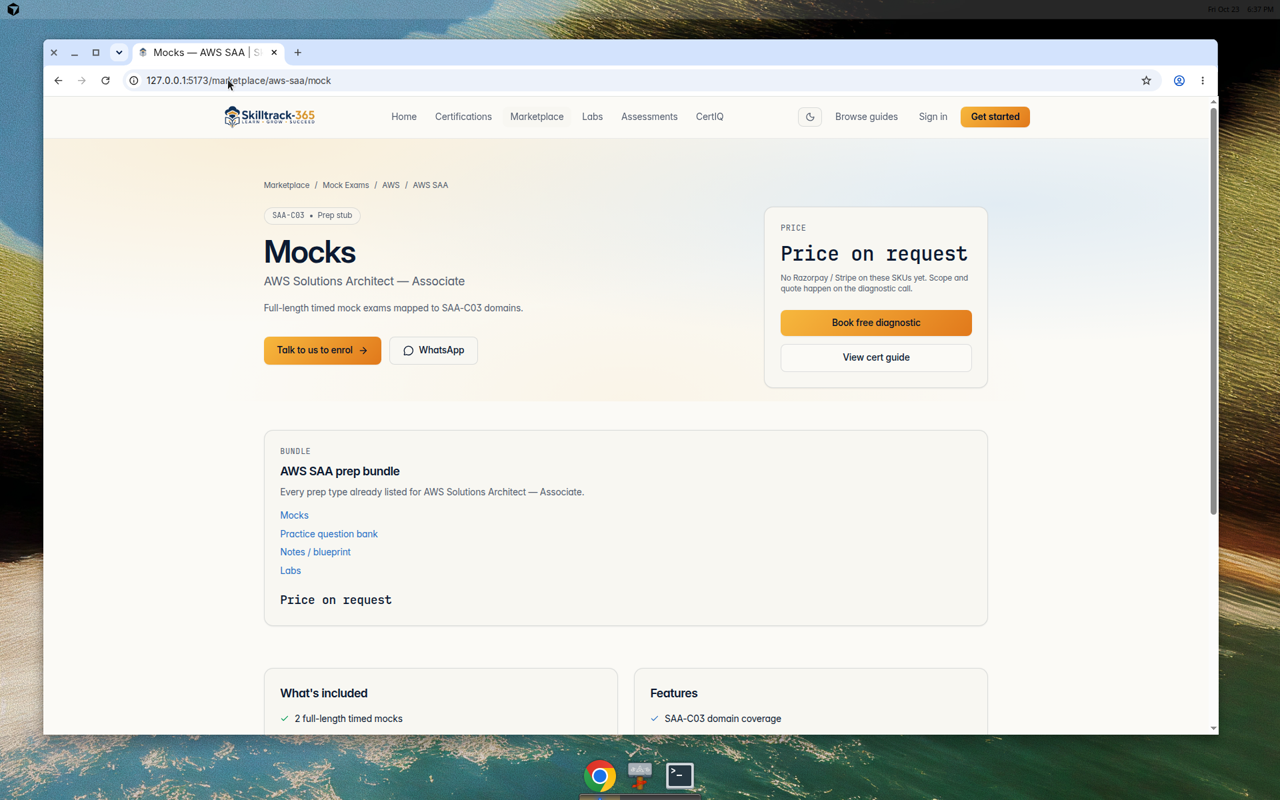
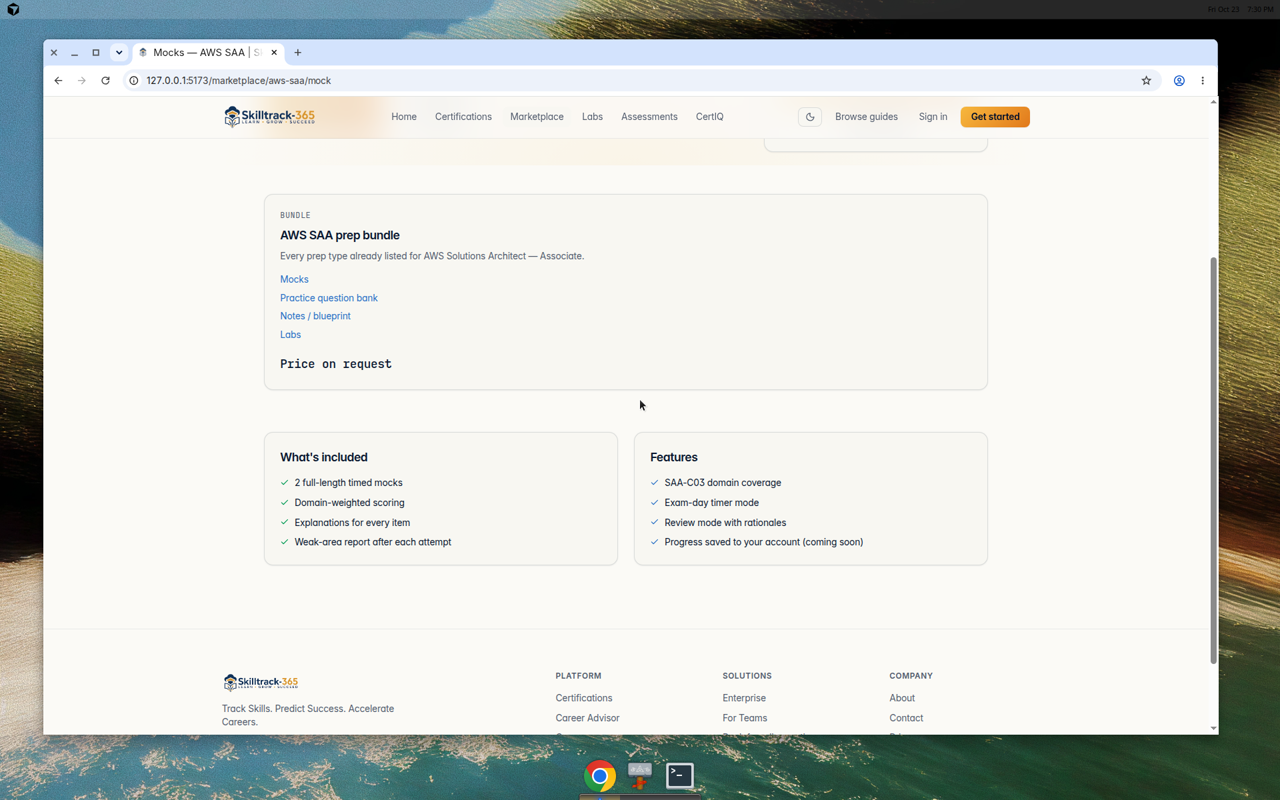
Treat the 999 marketplace seed price as missing.
Public prep prices and bundle totals ignore price_inr when it equals the column default, and show Price on request unless every SKU has a real price.

diff --git a/src/lib/marketplace.ts b/src/lib/marketplace.ts
@@ -391,8 +391,8 @@ const CERT_PREP_SKUS: Record<MarketplaceCertKey, PrepSkuDef[]> = {
 export const PREP_SKU_TYPES: PrepSkuDef[] = CERT_PREP_SKUS["aws-saa"];
 
 /**
- * Admin seed / form default only. Not a quoted prep price.
- * Public catalogue pages must not display this when `priceInr` is missing.
+ * Admin seed / form default and the `marketplace_skus.price_inr` column default.
+ * Not a quoted prep price. Public catalogue pages treat this amount as missing.
  */
 export const MARKETPLACE_PRICE_INR = 999;
 
@@ -403,9 +403,13 @@ export type ListedPrice = {
   currency: string;
 };
 
-/** A price the catalogue actually stored on the SKU. Missing or non-finite amounts are not listed. */
+/**
+ * A quoted prep price stored on the SKU.
+ * Missing, non-finite, and placeholder amounts (the column default / MARKETPLACE_PRICE_INR) are not listed.
+ */
 export function listedSkuPrice(sku: Pick<PrepSkuDef, "priceInr" | "currency">): ListedPrice | null {
   if (typeof sku.priceInr !== "number" || !Number.isFinite(sku.priceInr)) return null;
+  if (sku.priceInr === MARKETPLACE_PRICE_INR) return null;
   const currency = (sku.currency || "INR").trim().toUpperCase() || "INR";
   return { amount: sku.priceInr, currency };
 }
@@ -452,13 +456,17 @@ export type PrepBundleOffer = {
   title: string;
   skuTypes: PrepSkuType[];
   includes: string[];
-  /** Sum of stored SKU prices when every included SKU has a price in the same currency. */
+  /**
+   * Sum of quoted SKU prices when every included SKU has a real, non-placeholder
+   * price in the same currency. Otherwise null (shown as Price on request).
+   */
   price: ListedPrice | null;
 };
 
 /**
  * A bundle is the prep SKUs already listed for one certification (at least two).
- * No bundle price is stored; the amount is the sum of stored SKU prices, or null.
+ * No bundle price is stored. The amount is the sum of quoted SKU prices only when
+ * every included SKU has a real, non-placeholder price in the same currency.
  */
 export function prepBundleForCert(
   certKey: string,

diff --git a/src/lib/marketplace.test.ts b/src/lib/marketplace.test.ts
@@ -323,4 +323,42 @@ describe("marketplace prices and bundles", () => {
     }));
     expect(prepBundleForCert("aws-saa", catalog)?.price).toBeNull();
   });
+
+  it("treats the 999 seed default as missing, including inside bundle totals", () => {
+    expect(listedSkuPrice({ priceInr: 999, currency: "INR" })).toBeNull();
+    expect(listedSkuPrice({ priceInr: MARKETPLACE_PRICE_INR })).toBeNull();
+    expect(
+      formatListedPrice(listedSkuPrice({ priceInr: MARKETPLACE_PRICE_INR, currency: "INR" })),
+    ).toBe("Price on request");
+    expect(listedSkuPrice({ priceInr: 1299, currency: "INR" })).toEqual({
+      amount: 1299,
+      currency: "INR",
+    });
+
+    const catalog = buildStaticMarketplaceCatalog();
+    catalog.skusByCert["aws-saa"] = catalog.skusByCert["aws-saa"]!.map((sku) => ({
+      ...sku,
+      priceInr: MARKETPLACE_PRICE_INR,
+      currency: "INR",
+    }));
+    expect(prepBundleForCert("aws-saa", catalog)?.price).toBeNull();
+    expect(formatListedPrice(prepBundleForCert("aws-saa", catalog)?.price ?? null)).toBe(
+      "Price on request",
+    );
+    expect(priceSummaryLabel(priceSummaryForType("mock", catalog))).toBe("Price on request");
+
+    catalog.skusByCert["aws-saa"] = catalog.skusByCert["aws-saa"]!.map((sku, index) => ({
+      ...sku,
+      priceInr: index === 0 ? MARKETPLACE_PRICE_INR : 400,
+      currency: "INR",
+    }));
+    expect(prepBundleForCert("aws-saa", catalog)?.price).toBeNull();
+
+    catalog.skusByCert["aws-saa"] = catalog.skusByCert["aws-saa"]!.map((sku) => ({
+      ...sku,
+      priceInr: 400,
+      currency: "INR",
+    }));
+    expect(prepBundleForCert("aws-saa", catalog)?.price).toEqual({ amount: 1600, currency: "INR" });
+  });
 });
